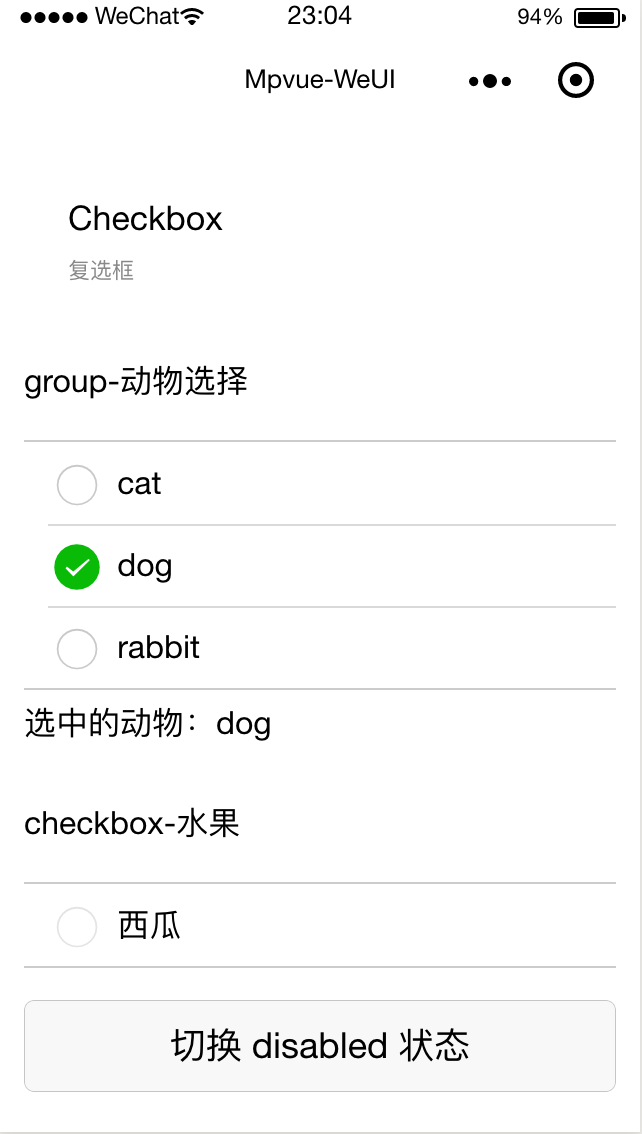
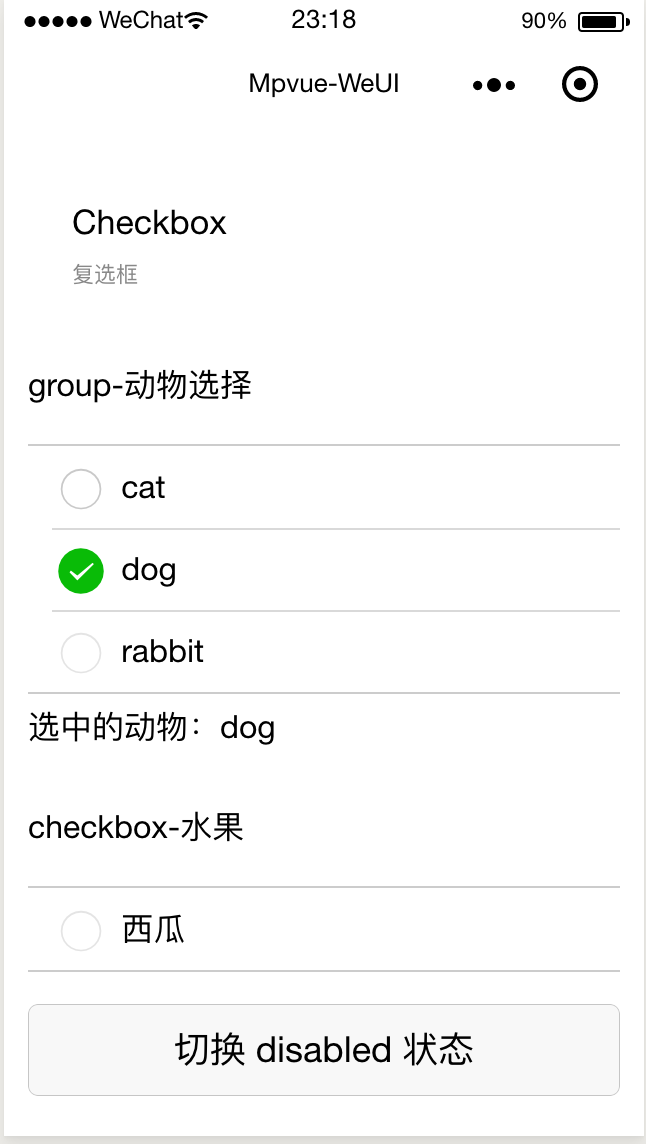
docs: checkbox docs done

diff --git a/example/pages/checkbox/index.vue b/example/pages/checkbox/index.vue
@@ -33,7 +33,7 @@ export default {
   },
   data() {
     return {
-      checkboxAnimalsList: [{ value: 'cat' }, { value: 'dog' }, { value: 'rabbit' }],
+      checkboxAnimalsList: [{ value: 'cat' }, { value: 'dog' }, { value: 'rabbit', disabled: true }],
       valueAnimals: ['dog'],
       checkboxFruitList: [{ value: '西瓜', disabled: true }],
       valueFruit: []

diff --git a/docs/formComponent/checkbox.md b/docs/formComponent/checkbox.md
@@ -1,3 +1,50 @@
 # Checkbox
 
-复选框，基于原生 `checkbox-group` 和 `checkbox` 组件，支持双向绑定。
+复选框，基于原生 `checkbox-group` 和 `checkbox` 组件，支持数据双向绑定。
+
+<imgPreview imgUrl="/assets/checkbox.png"/>
+
+### 引入
+
+``` js
+import mpCheckbox from 'mpvue-weui/checkbox';
+export default {
+  components: {
+    mpCheckbox,
+  },
+}
+```
+
+### 使用
+
+``` html
+<mpCheckbox :list="checkboxAnimalsList" v-model="valueAnimals" @change="checkboxChange"></mpCheckbox>
+```
+
+``` js
+...
+data() {
+  return {
+    checkboxAnimalsList: [{ value: 'cat' }, { value: 'dog' }, { value: 'rabbit', disabled: true }],
+    valueAnimals: ['dog']
+  };
+},
+...
+```
+
+### API
+
+| 参数 | 说明 | 类型 | 默认值 |
+|-----------|-----------|-----------|-------------|
+| value | `checkbox` 选中的值，可使用 v-model 双向绑定数据 | `Array` | `[]` |
+| list | `checkbox` 列表数据，必填 | `Array` | `-` |
+
+::: tip list
+list 的每一项为对象，有两个字段，`value`，复选框的值，也是要展示的值。`disabled`，是否禁用，这个字段非必填，默认为 `false`。
+:::
+
+### Event
+
+| 事件名 | 说明 | 参数 |
+|-----------|-----------|-----------|
+| @change| 复选框值发生变化时触发 | 返回 `value` |
